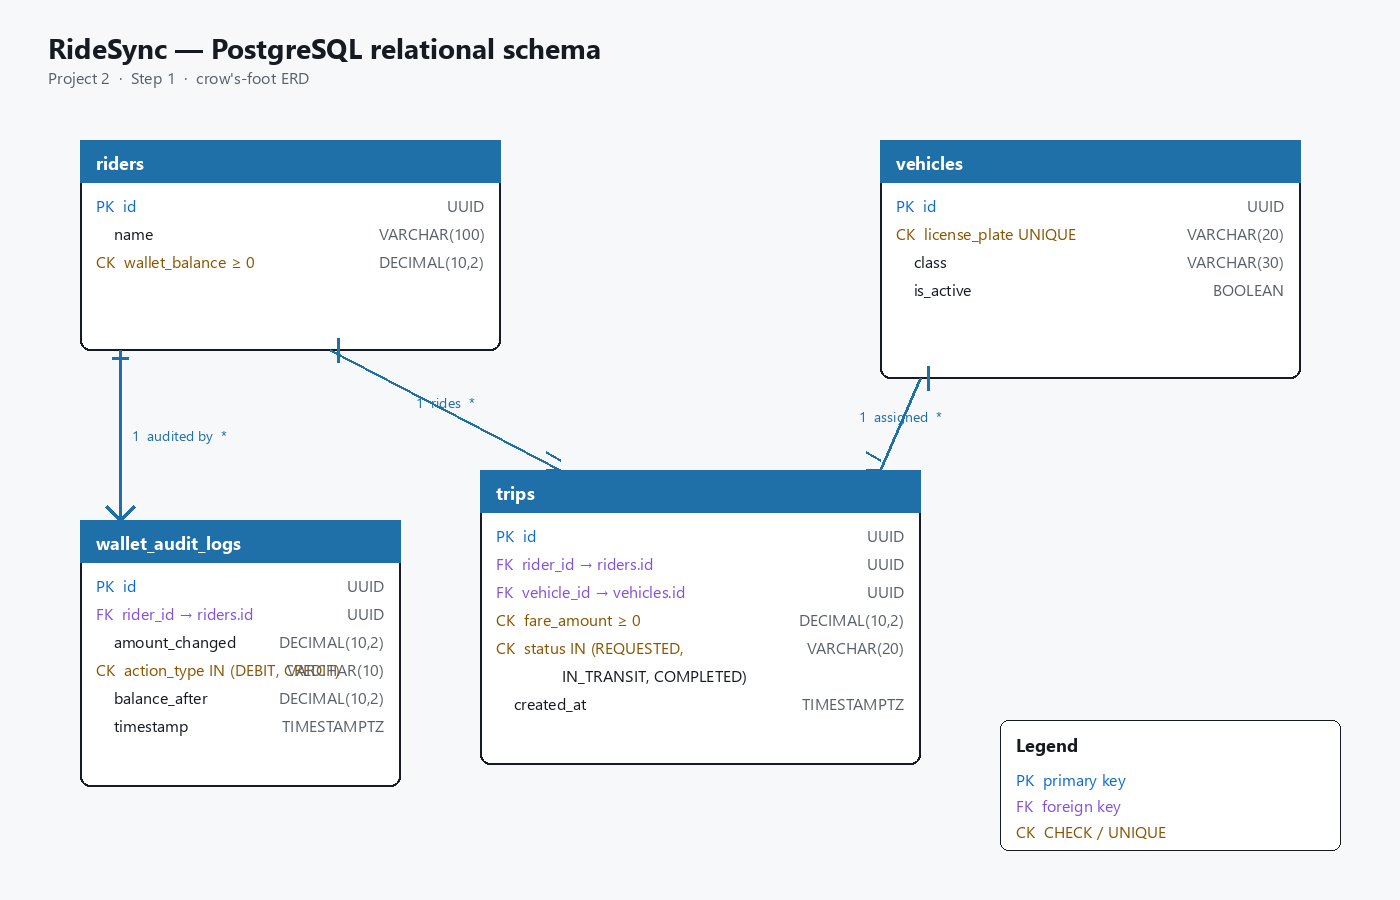
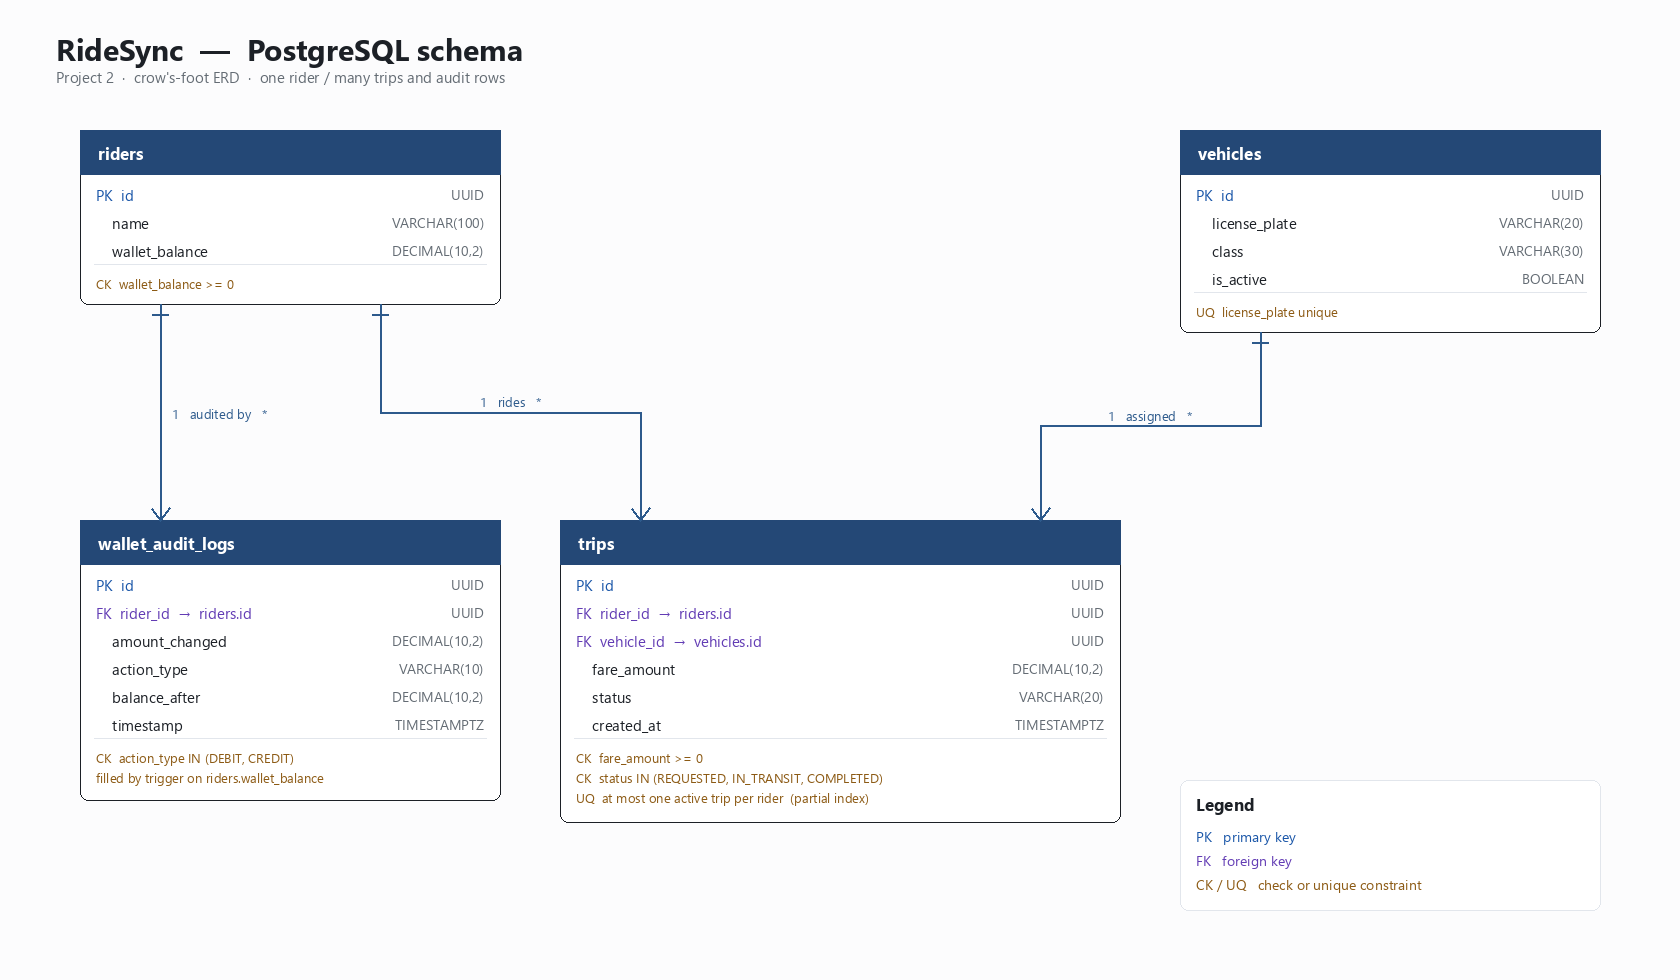
Fixed sql queries and generated analysis

diff --git a/data_generation/mongo_seeder.py b/data_generation/mongo_seeder.py
@@ -1,15 +1,4 @@
 """
-RideSync Step 4 — MongoDB seeder.
-
-Targets (assignment):
-  - at least 500,000 TelemetryPings (GeoJSON Point)
-
-Also seeds TripReviews (Workflow 4 $facet) and VehicleMetadata.
-
-Pings are clustered around San Francisco so mongo/02_workflow3_geonear.js
-(near [-122.4194, 37.7749], 5 km) finds documents. created_at is within the
-last 90 minutes so the 2-hour TTL index does not delete them immediately.
-
 Usage:
   python data_generation/mongo_seeder.py
   python data_generation/mongo_seeder.py --reset

diff --git a/data_generation/postgres_seeder.py b/data_generation/postgres_seeder.py
@@ -1,10 +1,4 @@
 """
-RideSync Step 4 — PostgreSQL seeder.
-
-Targets (assignment):
-  - at least 50,000 trips
-  - at least 100,000 wallet_audit_logs (via the wallet_balance trigger)
-
 Usage:
   python data_generation/postgres_seeder.py
   python data_generation/postgres_seeder.py --reset
